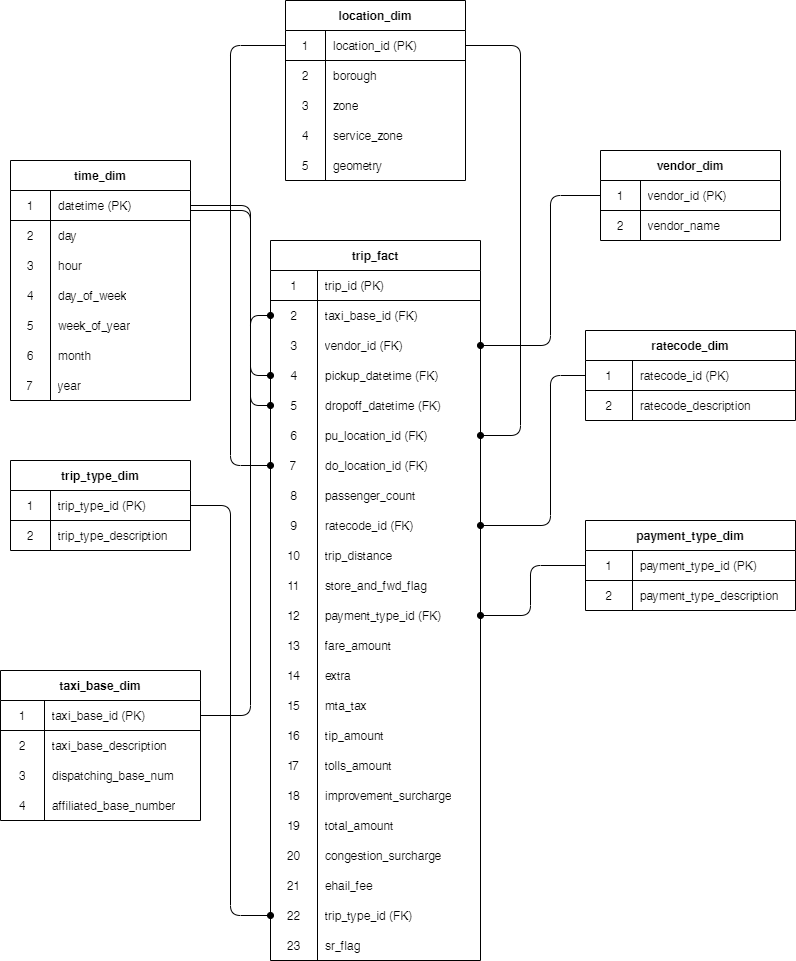
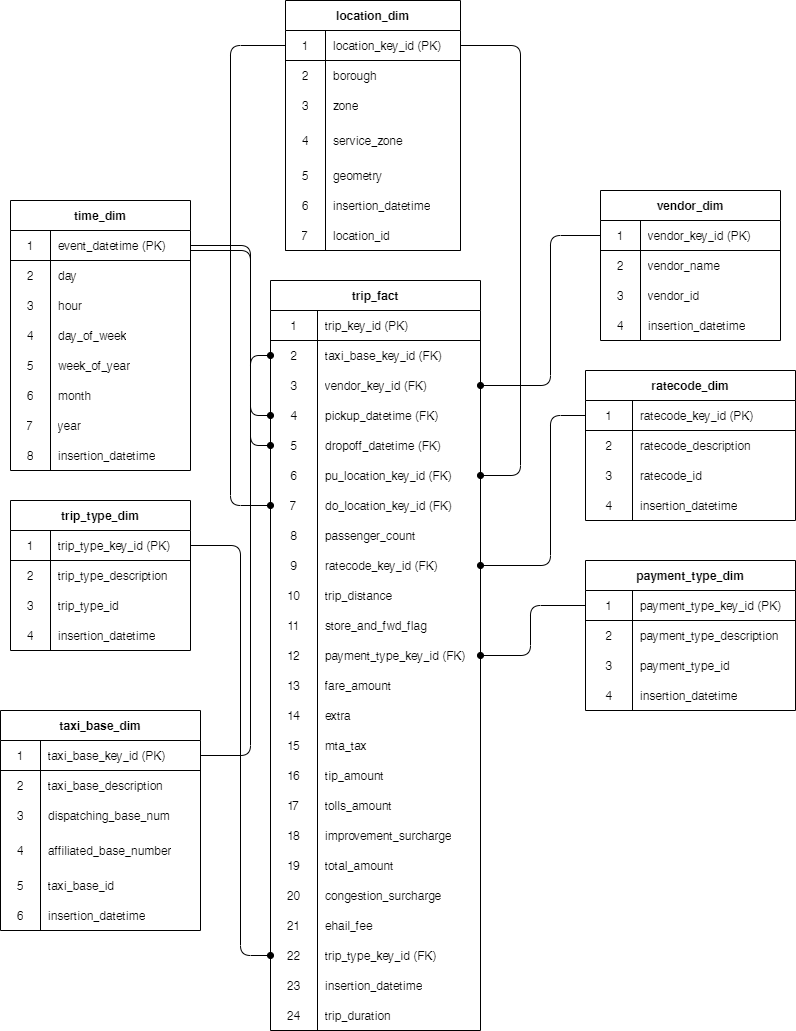
Added new Model diagrams

diff --git a/docs/ETLDesign.md b/docs/ETLDesign.md
@@ -26,7 +26,7 @@
 The pipelines would be run on a daily basis by 7 am every day. (e.g. Changed from monthly loads to daily loads)
 ```
 
-<p>The input files are released on a monthly basis and using a "filename_YYYY-MM.csv" naming convention. If the frequency was changed to daily instead of monthly, the file naming convention would need to be dated with the correct day in the form "filename_YYYY-MM-DD.csv". This would require minimal changes within the DAGs. We would need to change the expected file patten to include "day" and the pipeline should run as expected. </p>
+<p>The input files are released on a monthly basis using a "filename_YYYY-MM.csv" naming convention. If the frequency was changed to daily instead of monthly, the file naming convention would need to be dated with the correct day in the form "filename_YYYY-MM-DD.csv". This would require minimal changes within the DAGs. We would need to change the expected file patten to include "day" and the pipeline should run as expected. </p>
 
 <p>So for example, within yellow_dag.py we have the following S3ToStaging operator which loads the input data into staging.</p>
 
@@ -39,13 +39,13 @@ load_yellow_staging_table = S3ToStaging(
     )
 ```
 
-<p>You would just need to change the "s3_key" input parameter string to handle daily files and the job should run as expected. With repect to scheduling the job, we could set the schedule_interval="@daily" which would kick off the daily jobs at 12:00am which would complete well before 7am. </p>
+<p>You would just need to change the "s3_key" input parameter string to handle daily files and the job should run as expected. With repect to scheduling of the job, we could set the schedule_interval="@daily" which would kick off the daily jobs at 12:00am which would complete well before 7am. </p>
 
 <br>
 
 ### 6.1 Requirements
 
-<p>As shown below, airflow meets all of our requirements for this use case. Airflow is python based which shorterns the learning curve for teams managing the new implementation. Airflow can be deployed as cluster so it can scale as the workload increases or if new feeds are added. </p>
+<p>As shown below, airflow meets all of our requirements for this use case. Airflow is python based which shorterns the learning curve for teams managing the new implementation. Airflow can be deployed as a cluster so it can scale as the workload increases or if new feeds are added. </p>
 
 | Requirements for New Orchestration tool                                      |
 |:----------------------------------------------------------------------------:|
@@ -76,7 +76,7 @@ load_yellow_staging_table = S3ToStaging(
 
 1. Issue 1: Null Values
 
-<p>A number of the source columns contain null values; vendor_id, ratecodeid, payment_type etc. In order to resolve this issue an SP was created that looks for null values in the target staging table and replaces them with the appropriate string.</p>
+<p>A number of the source columns contain null values; vendor_id, ratecodeid, payment_type etc. To resolve this issue an SP was created that looks for null values in the staging table and replaces them with the appropriate string.</p>
 
 ```
 CREATE OR REPLACE PROCEDURE replace_nulls(
@@ -136,7 +136,7 @@ CREATE OR REPLACE PROCEDURE replace_nulls(
 
 2. Issue 2: Zero passengers recorded
 
-<p>Occasionally, a trip is recorded with 0 passengers. This doesn't make sence as there must be at least 1 passenger. This metric is self reported by the driver so that may explain the unusual numbers. This can be resolved using another SP.</p>
+<p>Occasionally, a trip is recorded with 0 passengers. This doesn't make sense as there must be at least 1 passenger. This metric is self reported by the driver so that may explain the unusual numbers. This can be resolved using another SP.</p>
 
 ```
 CREATE OR REPLACE PROCEDURE replace_zero_passenger(
@@ -201,7 +201,7 @@ CREATE OR REPLACE PROCEDURE replace_zero_ratecode(
 
 **Staging Data Quality Check**
 
-<p>This checks that the column names amd number of rows are as expected before loading into the star schema. The StagingDataQuality operator takes a staging table name as an argument as shown.</p>
+<p>This checks that the column names and number of rows are as expected before loading into the star schema. The StagingDataQuality operator takes a staging table name as an argument, as shown below.</p>
 
 ```
 yellow_data_quality_check = StagingDataQuality(
@@ -224,7 +224,7 @@ prod_data_quality_check = ProdDataQualityCheck(
 
 ### 6.4 DAG List
 
-<p>DAGs 1-4 are the primary data pipelines. DAGs 5-6 are to refresh the taxi base and zone lookup data in the staging tables. The design frequency is set to "monthly", as files are created each month and deposited into the source S3 bucket. Each of the primary 4 DAGs can run independantly and load data into the Data warehouse Star schema. </p>
+<p>DAGs 1-4 are the primary data pipelines. DAGs 5-6 are to refresh the taxi base and zone lookup data in the staging tables. The design frequency is set to "monthly", as files are created each month and deposited into the source S3 bucket. Each of the primary 4 DAGs can run independantly and load data into the Data Warehouse Star schema. </p>
 
 
 | ID  | File Name               | Description                                      | Dag ID                   | Frequency  |
@@ -237,7 +237,7 @@ prod_data_quality_check = ProdDataQualityCheck(
 | 6   | taxi_zone_lookup_dag.py | Loads taxi zone lookup data into staging tables  | tlc_taxi_zone_lookup_etl | @Monthly   |
 
 
-<p>The four primary DAGS have simular structure. First dependencies are loaded; this includes all stored procedures and functions required for ETL. Next, data is loaded into staging tables and a basic data quality check is run to validate number of columns and rows. Data is then loaded into the dimensions first, follows by a full load into the trip_fact table. A follow up validation check is done in order to ensure data was loaded correctly.</p>
+<p>The four primary DAGS have simular structure. First, dependencies are loaded; this includes all stored procedures and functions required for ETL. Next, data is loaded into staging tables and a basic data quality check is run to validate the number of columns and rows. Data is then loaded into the dimensions first, follows by a full load into the trip_fact table. A follow up validation check is done in order to ensure data was loaded correctly.</p>
 
 <br>
 
